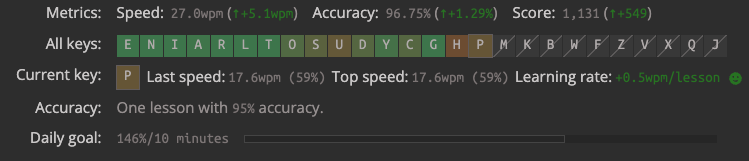
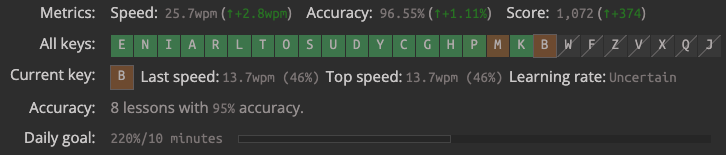
update keyboard progress

diff --git a/now.md b/now.md
@@ -2,13 +2,13 @@
 layout: page
 title: "now"
 created: 2024-12-14
-updated: 2025-10-16
+updated: 2025-10-22
 version: 1.8.12
 categories: now
 tags: hidden
 ---
 
-<small>_Last updated on Oct 16, 2025 from Buenos Aires._</small>
+<small>_Last updated on Oct 22, 2025 from Buenos Aires._</small>
 
 ## Tango
 
@@ -24,7 +24,7 @@ I bought my <a href="https://www.zsa.io/voyager">Voyager keyboard</a> in Oct, 20
 
 <img src="assets/keyboard-voyager.JPG" alt="Voyager Keyboard">
 
-Update (2025/10/09): I have 10 more letters to memorize! My plan is to switch all my keyboards to graphite before the end of the year and get to 40wpm at 97% accuracy.
+Update (2025/10/22): I have <a href="https://www.keybr.com/profile/82hl9uj">8 more letters</a> to memorize! My plan is to switch all my keyboards to graphite before the end of the year and get to 40wpm at 97% accuracy.
 
 <img src="assets/graphite-progress.png" alt="Graphite Progress">
 
